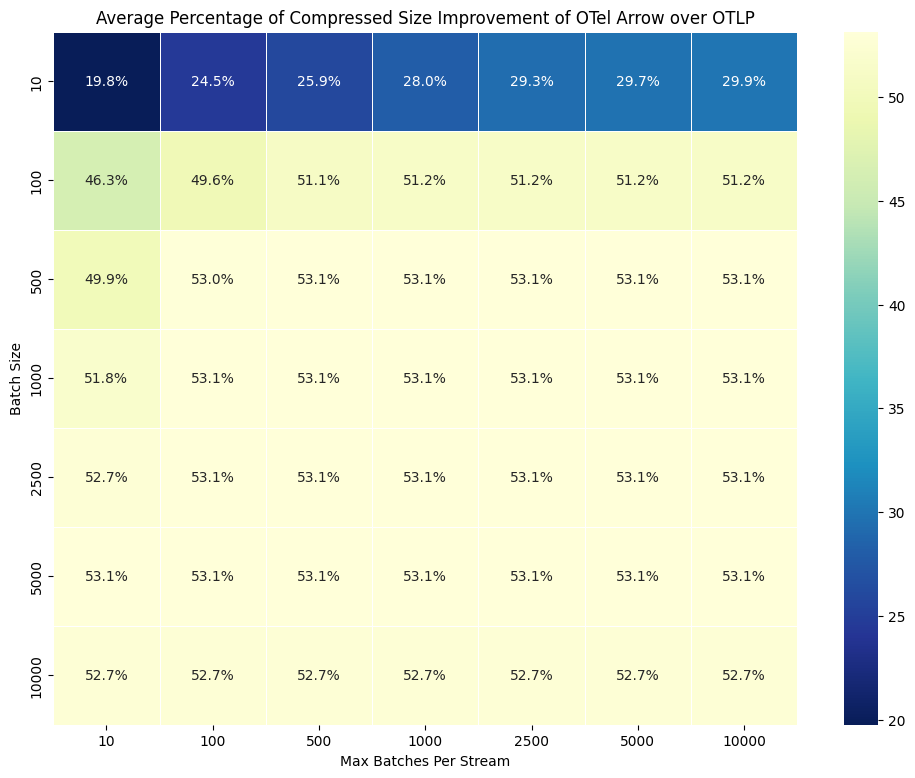
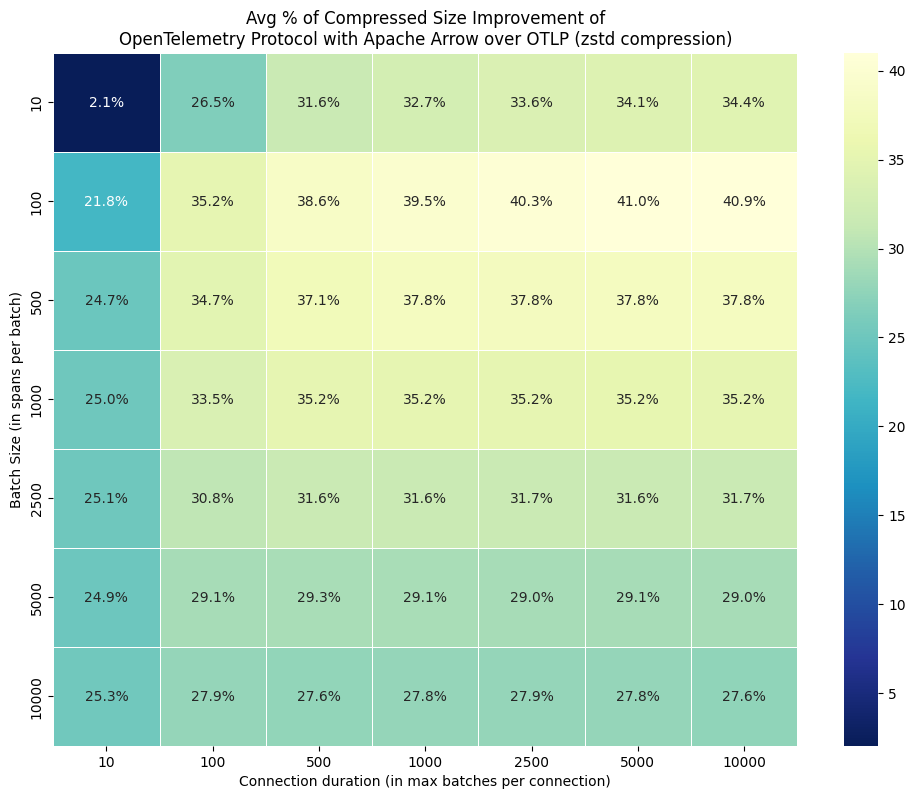
docs: update README.md to include heatmap and revisit some old stuff

diff --git a/README.md b/README.md
@@ -11,7 +11,7 @@ reference implementation.
 ## Quick start
 
 Instructions for building an OpenTelemetry Collector with the modules
-in this repository are provided in [BUILDING.md][].
+in this repository are provided in [BUILDING.md](./collector/BUILDING.md).
 
 Examples for running the OpenTelemetry Collector with the modules in
 this repository are documented in
@@ -39,22 +39,36 @@ data relatively simple and easy to interpret.  Because of this design,
 users of OTLP will typically configure network compression.  In
 environments where telemetry data will be shipped to a service
 provider across a wide-area network, users would like more compression
-than can be achieved using a stateless protocol.
+than can be achieved using a row-based data model and a stateless protocol.
 
 ## Project goals
 
-The OpenTelemetry Protocol with Apache Arrow project is organized in phases.  Our initial aim is to
-facilitate traffic reduction between a pair of OpenTelemetry
-collectors, and ultimately, we believe that an end-to-end OpenTelemetry Protocol with Apache Arrow
-pipeline will enable telemetry pipelines with substantially lower
-overhead to be built.  These are our future milestones for
-OpenTelemetry and Apache Arrow integration:
+This is organized in phases. Our initial aim is to facilitate traffic reduction
+between a pair of OpenTelemetry collectors as illustrated in the following
+diagram.
 
-1. Improve compression performance for OpenTelemetry data collection
-2. Extend OpenTelemetry client SDKs to natively support the OpenTelemetry Protocol with Apache Arrow Protocol
-3. Extend the OpenTelemetry collector with direct support for OpenTelemetry Protocol with Apache Arrow pipelines
-4. Extend OpenTelemetry data model with support for multi-variate metrics.
-5. Output OpenTelemetry data to the Parquet file format, part of the Apache Arrow ecosystem
+![Traffic reduction use case](docs/img/traffic_reduction_use_case.png)
+
+The collector provided in this repository implements a new Arrow Receiver and
+Exporter able to fallback on standard OTLP when needed. The following diagram is
+an overview of this integration. In this first phase, the internal
+representation of the telemetry data is still fundamentally row-oriented.
+
+![collector internal overview](docs/img/collector_internal_overview.png)
+
+Ultimately, we believe that an end-to-end OpenTelemetry Protocol with Apache
+Arrow pipeline will enable telemetry pipelines with substantially lower
+overhead to be built. These are our future milestones for OpenTelemetry and
+Apache Arrow integration:
+
+1. Extend OpenTelemetry client SDKs to natively support the OpenTelemetry  
+   Protocol with Apache Arrow Protocol
+2. Extend the OpenTelemetry collector with direct support for OpenTelemetry
+   Protocol with Apache Arrow pipelines
+3. Extend OpenTelemetry data model with native support for multi-variate
+   metrics.
+4. Output OpenTelemetry data to the Parquet file format, part of the Apache
+   Arrow ecosystem
 
 ### Improve network-level compression with OpenTelemetry Protocol with Apache Arrow
 
@@ -68,9 +82,9 @@ to compactly encode and transmit telemetry using Apache Arrow.
 2. Calculate distinct attribute sets used by Resources, Scopes,
    Metrics, Logs, Spans, Span Events, and Span Links, then encode and
    transmit each distinct entity once per stream lifetime.
-3. Use Apache Arrow's built-in support for encoding dictionaries,
-   delta-dictionaries, and other low-level facilities to compactly
-   encode the structure.
+3. Use Apache Arrow's built-in support for encoding dictionaries and leverage
+   other purpose-built low-level facilities, such as delta-dictionaries and 
+   sorting, to encode structures compactly.
 
 Here is a diagram showing how the protocol transforms OTLP Log Records
 into column-oriented data, which also makes the data more compressible.
@@ -149,27 +163,27 @@ metrics (see left column).
 
 ![compression_ratio](./docs/img/compression_ratio_summary_multivariate_metrics.png)
 
+The following heatmap represents, for different combinations of batch sizes and
+connection durations (expressed as the number of batches per stream), the
+additional percentage of compression gain between this new protocol and OTLP,
+both compressed with ZSTD. The data used here comes from a traffic of spans
+captured in a production environment. The gains are substantial in most cases.
+It is even interesting to note that these gains compared to OTLP+ZSTD are more
+significant for moderate-sized batches (e.g., 100 and 1000 spans per batch),
+which makes this protocol also interesting for scenarios where the additional
+latency introduced by batching must be minimized. There is hardly any scenario
+where micro-batches (e.g., 10 spans per batch) make the overhead of the Arrow
+schema prohibitive, and the advantage of a columnar representation becomes
+negligible. In other cases, this initial overhead is very quickly offset after
+just the first few batches. The columnar organization also lends itself better
+to compression. For very large batch sizes, ZSTD does an excellent job as long
+as the compression window is sufficiently large, but even in this case, the new
+protocol remains superior. As previously mentioned, these compression gains can
+be higher for traffic predominantly containing multivariate metrics.
+
+![Avg % of compressed size improvement of OpenTelemetry Protocol with Apache Arrow over OTLP (zstd compression)](./docs/img/average_improvement_heatmap.png)
+
 For more details, see the following [benchmark results](docs/benchmarks.md) page.
- 
-## Phase 1 (current implementation)
-
-This first step is intended to address the specific use cases of traffic reduction. Based on community feedback, many
-companies want to reduce the cost of transferring telemetry data over the Internet. By adding a collector that acts as
-a point of integration and traffic conversion at the edge of a client environment, we can take advantage of the columnar
-format to eliminate redundant data and optimize the compression rate. This is illustrated in the following diagram.
-
-![Traffic reduction use case](docs/img/traffic_reduction_use_case.png)
-
-> Note 1: A fallback mechanism can be used to handle the case where the new protocol is not supported by the target. 
-> More on this mechanism in this [section](https://github.com/lquerel/oteps/blob/main/text/0156-columnar-encoding.md#protocol-extension-and-fallback-mechanism) of the OTEP. 
-
-The experimental collector implements on top of this library a new Arrow Receiver and Exporter able to fallback on
-standard OTLP when needed. The following diagram is an overview of this integration. The internal representation of the
-data has not been updated and this collector is still fundamentally row-oriented internally.
-
-![collector internal overview](docs/img/collector_internal_overview.png)
-
-> Note 2: A future phase 2 of this project will focus on implementing end-to-end OpenTelemetry Protocol with Apache Arrow to improve the overall performance.
 
 ### Developers
 
